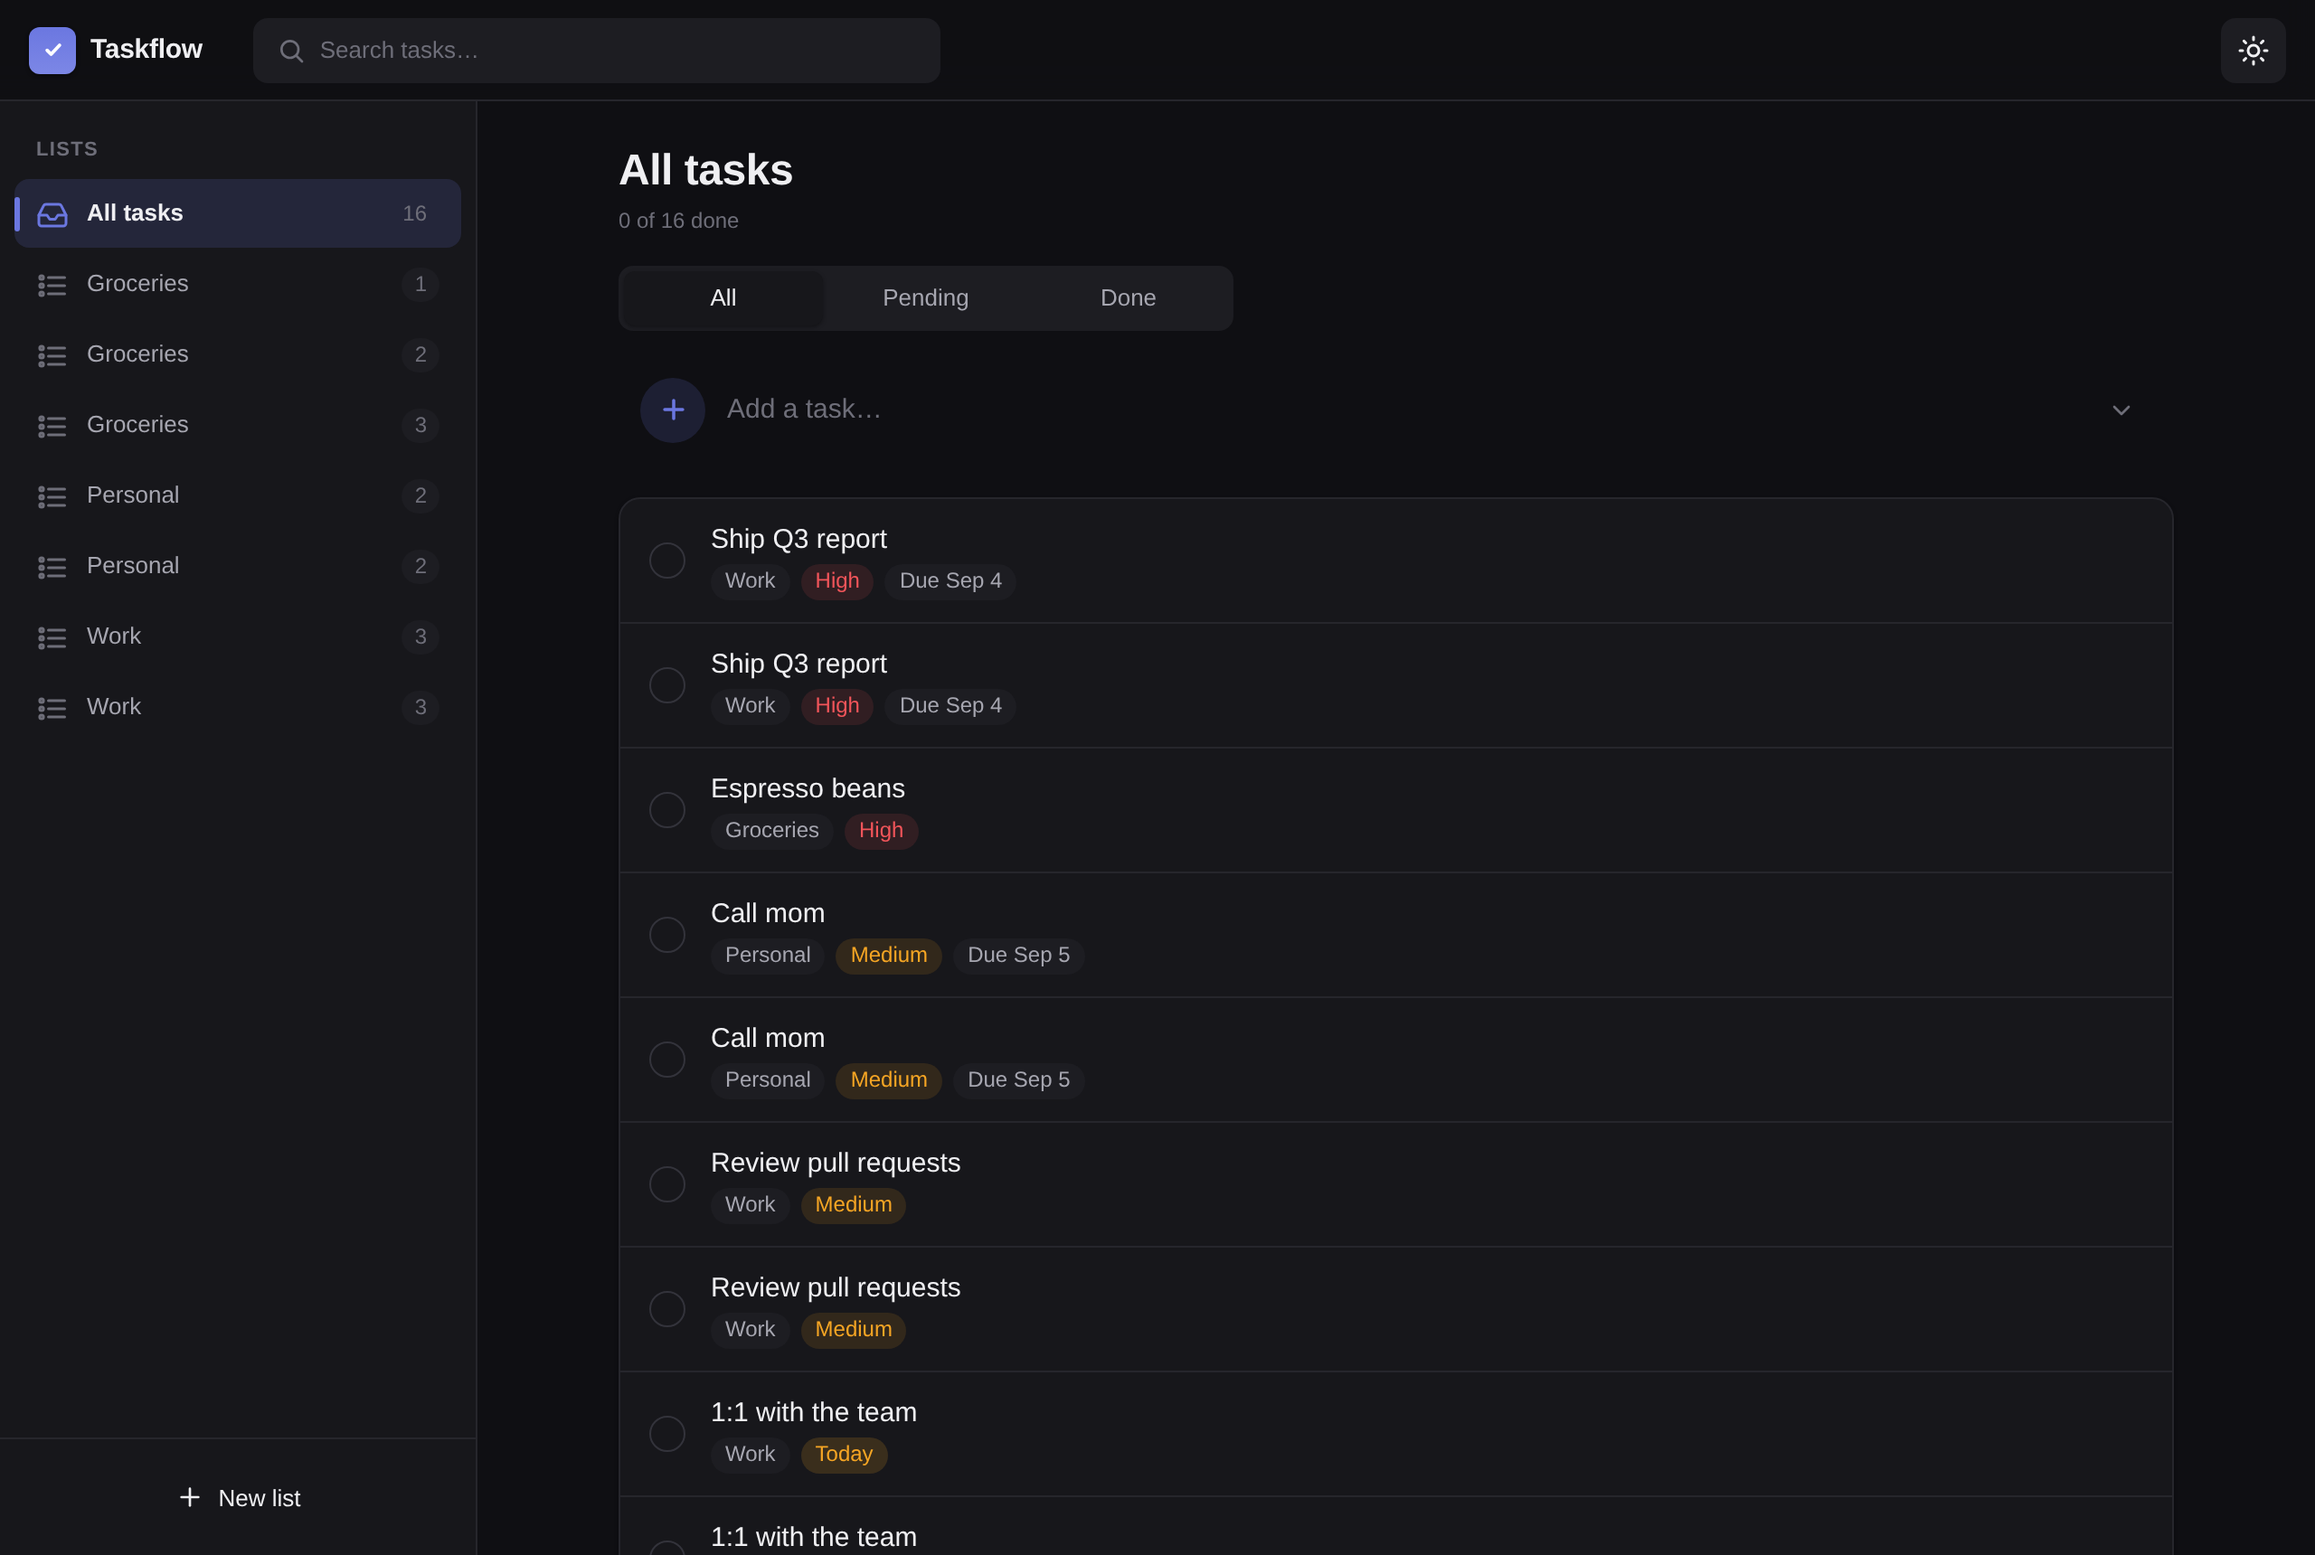
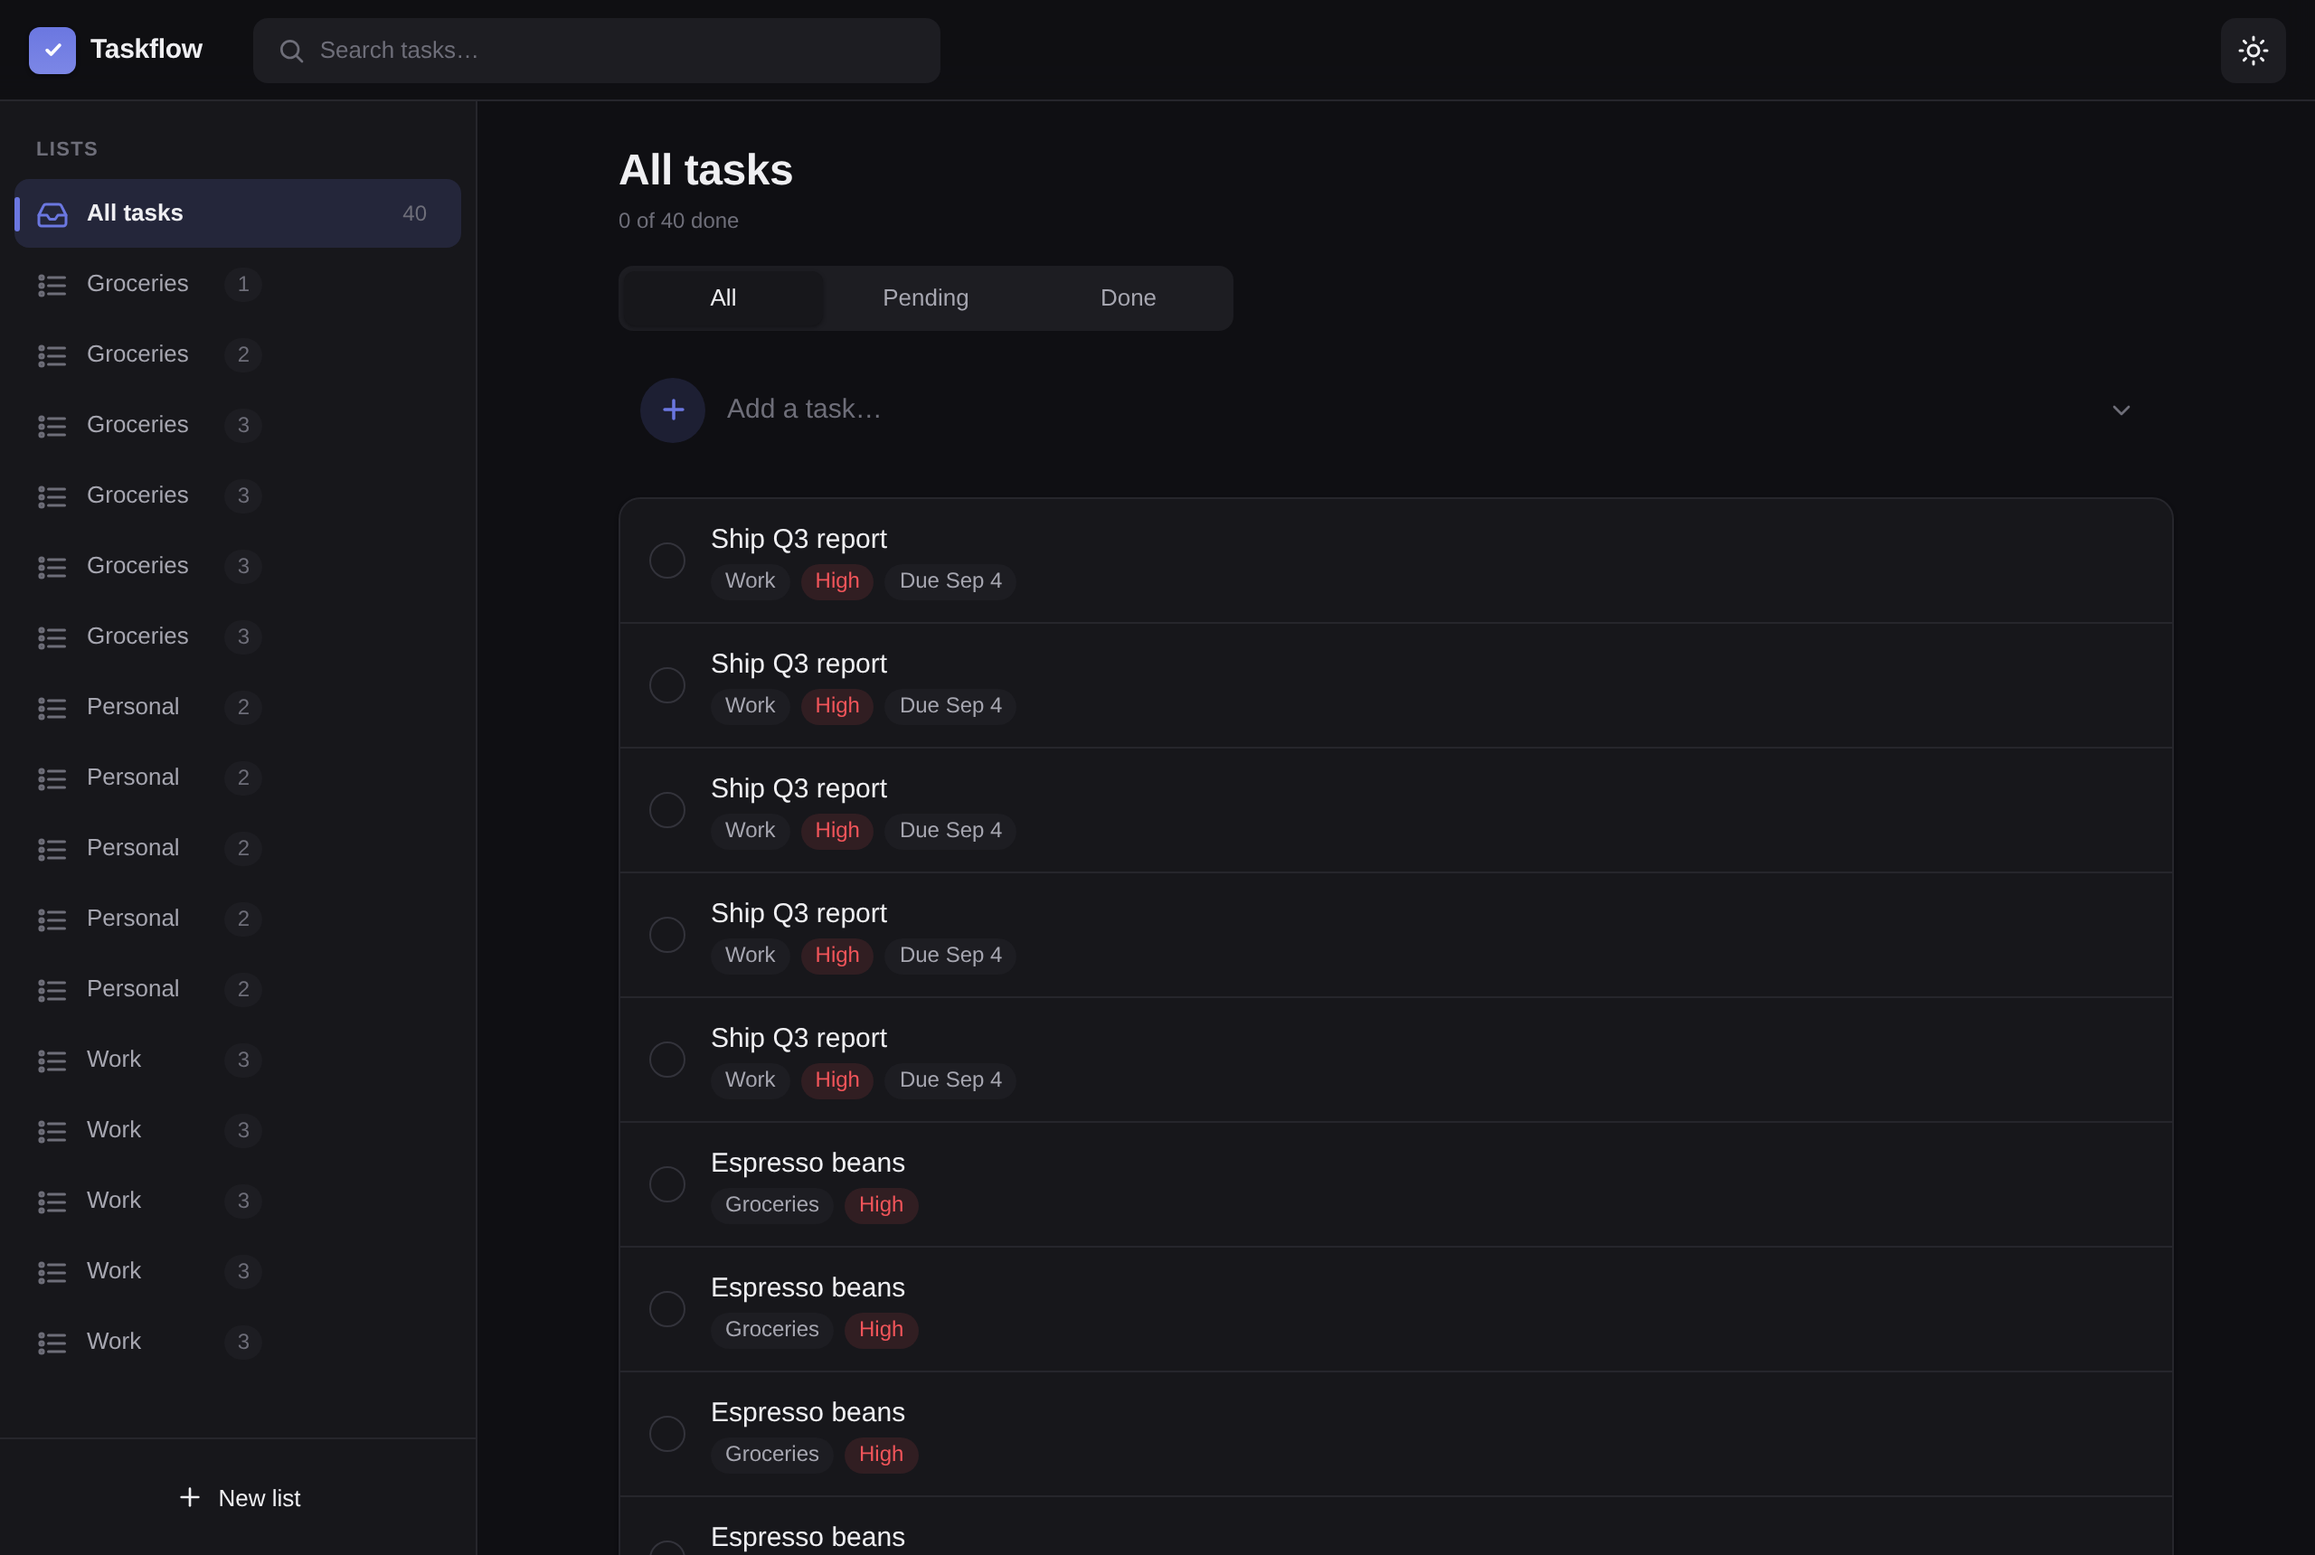
Always show sidebar list action buttons (rename/share/delete)
On touch devices there is no hover, so hover-revealed actions were invisible
until the row was tapped. Actions are now permanently visible beside each list
name; the pending-count badge stays visible alongside them. Bump SW cache to
v4 and refresh screenshots.

diff --git a/static/style.css b/static/style.css
@@ -506,11 +506,9 @@ body.sidebar-open { overflow: hidden; }
   flex: none;
 }
 .nav-row.active .nav-count { background: transparent; }
-.nav-row .row-actions { display: none; align-items: center; gap: 1px; flex: none; }
+.nav-row .row-actions { display: inline-flex; align-items: center; gap: 1px; flex: none; }
 .nav-row .row-actions .icon-btn { width: 28px; height: 28px; color: var(--text-muted); }
 .nav-row .row-actions .icon-btn:hover { color: var(--text); background: var(--surface-3); }
-.nav-row:hover .nav-count, .nav-row:focus-within .nav-count { display: none; }
-.nav-row:hover .row-actions, .nav-row:focus-within .row-actions { display: inline-flex; }
 
 /* Main column */
 .main {

diff --git a/static/sw.js b/static/sw.js
@@ -5,7 +5,7 @@
  * unregister old service workers when testing fresh changes — stale workers
  * haunt offline testing otherwise).
  */
-const SHELL_CACHE = 'taskflow-shell-v3';
+const SHELL_CACHE = 'taskflow-shell-v4';
 const API_CACHE = 'taskflow-api-v1';
 
 /* Every entry MUST exist on the server or install fails (addAll rejects). */

diff --git a/tests/test_pwa.py b/tests/test_pwa.py
@@ -89,7 +89,7 @@ def test_sw_precache_entries_resolvable(client):
     assert r.headers["content-type"].startswith("text/javascript")
     assert r.headers.get("cache-control") == "no-cache"
     text = r.text
-    assert "taskflow-shell-v3" in text and "taskflow-api-v1" in text
+    assert "taskflow-shell-v4" in text and "taskflow-api-v1" in text
 
     m = re.search(r"const PRECACHE\s*=\s*\[(.*?)\];", text, re.S)
     assert m, "PRECACHE array not found in sw.js"
